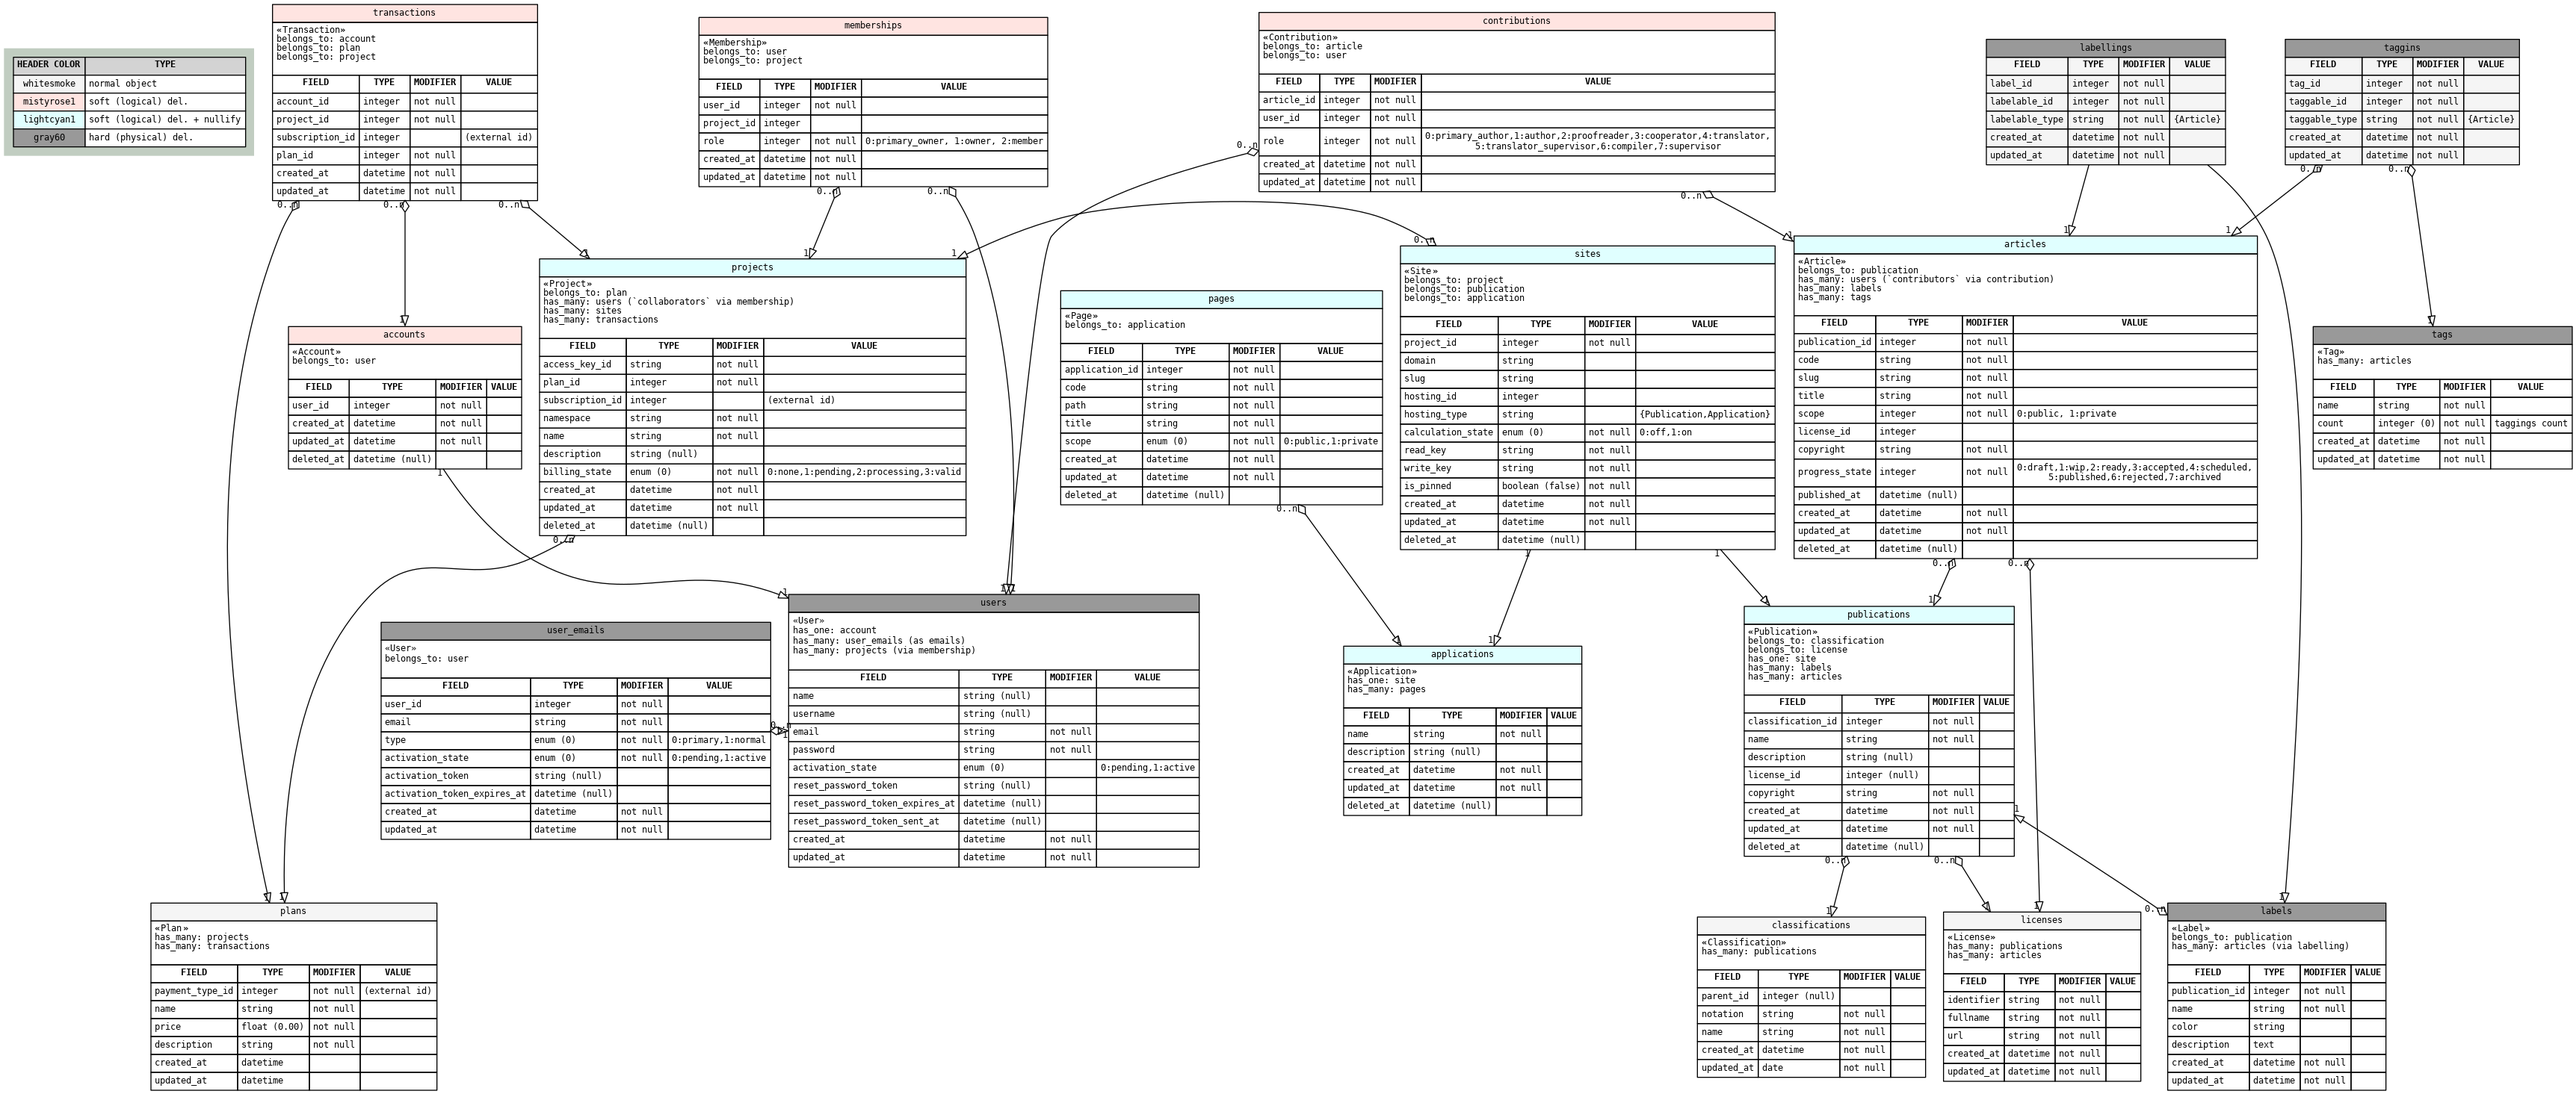
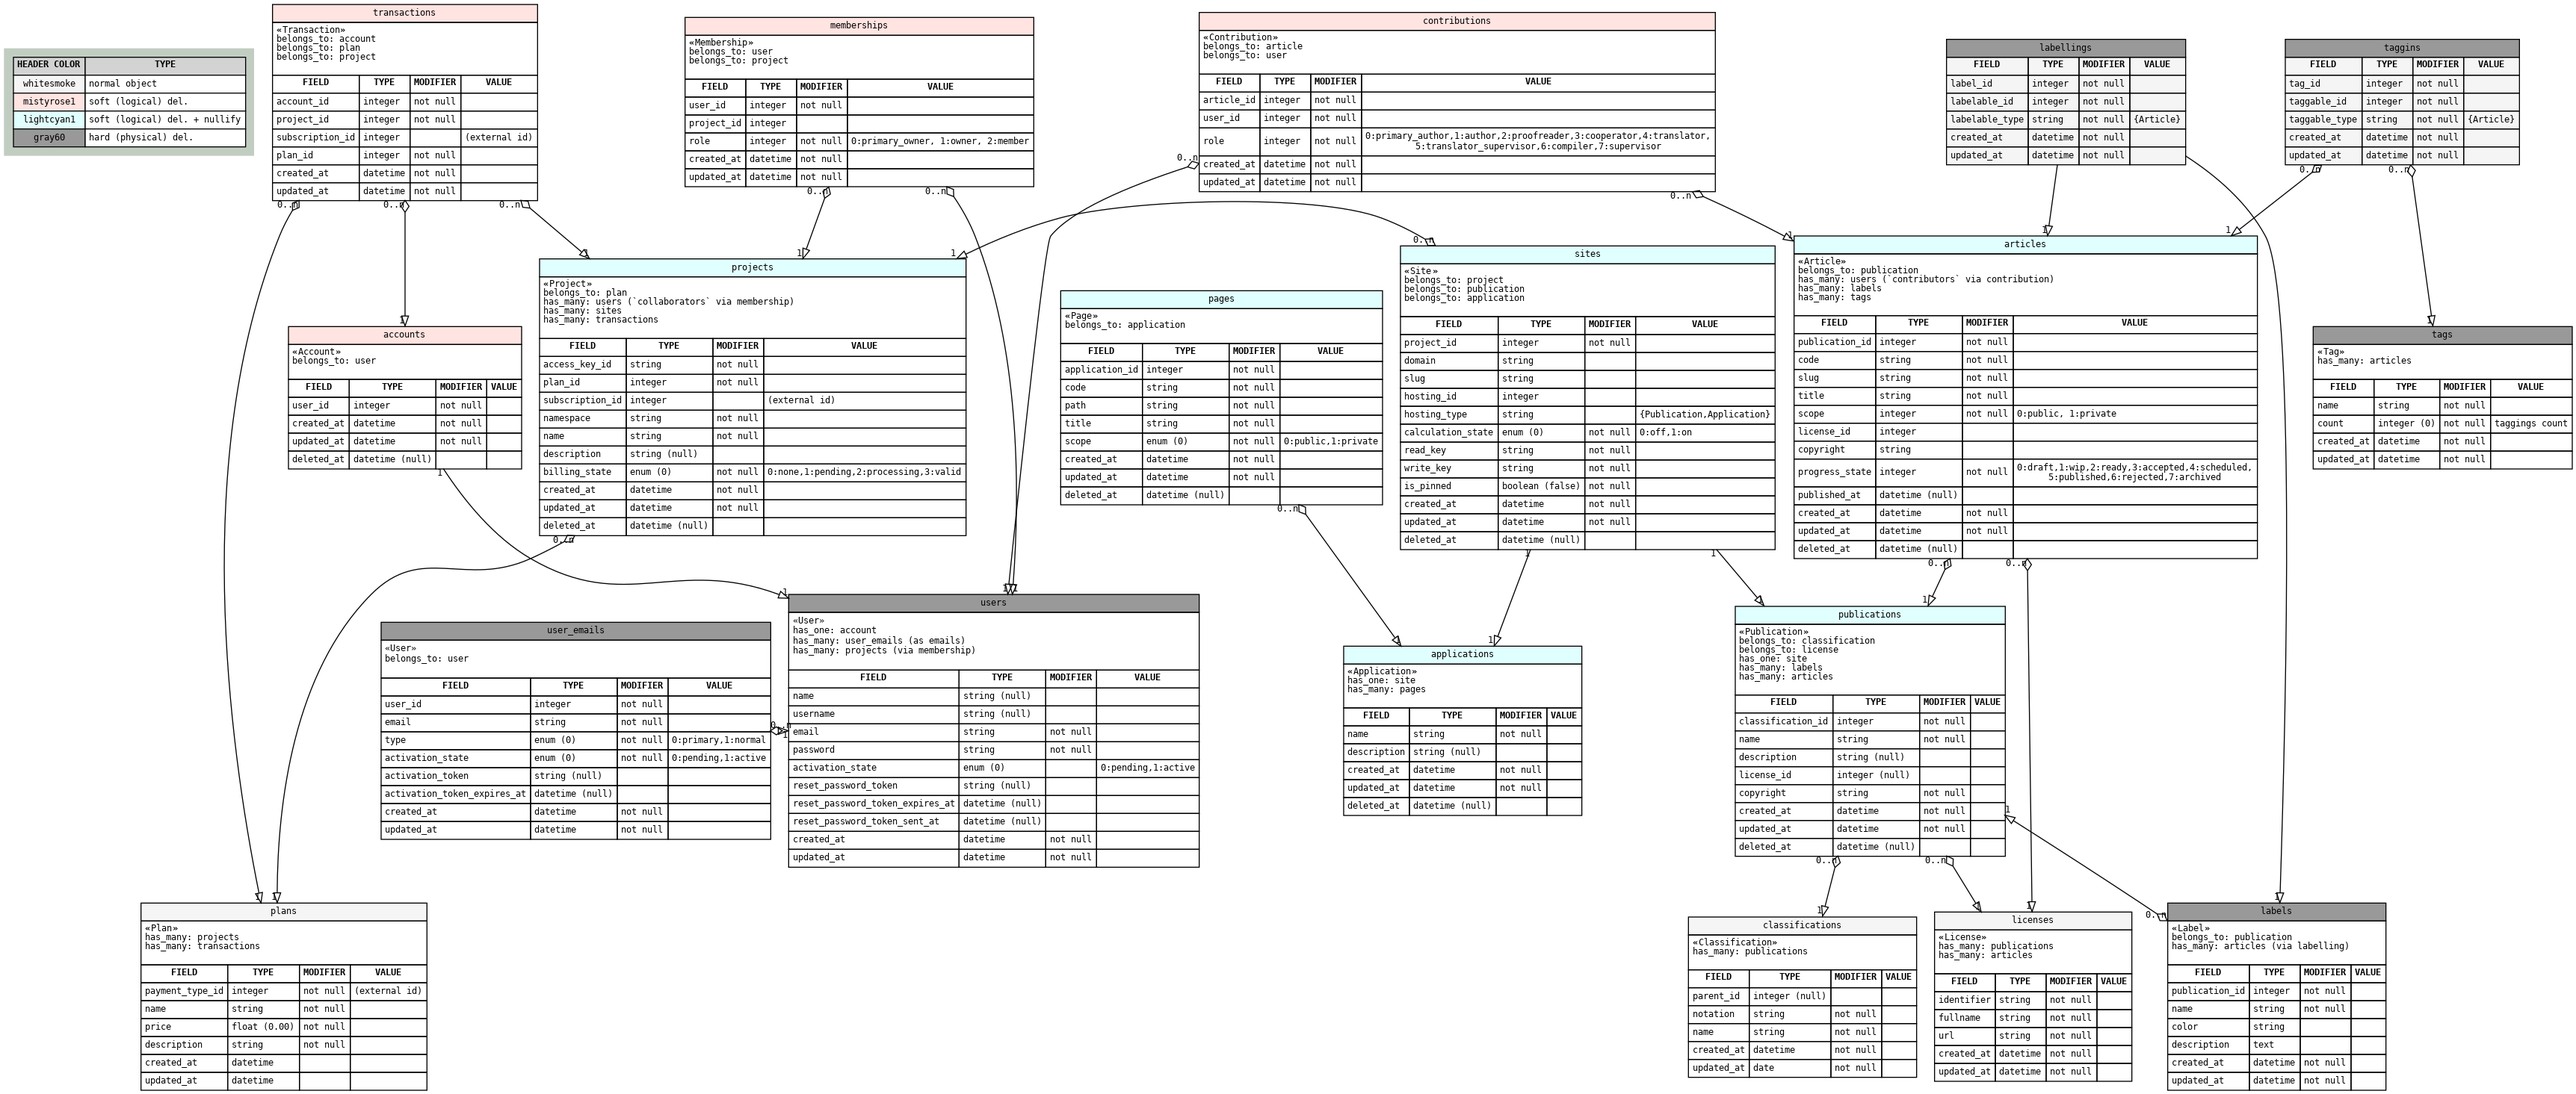
Remove not null from copyright in articles
close #23

diff --git a/db/migrations/021_remove_article_copyright_null_constraints.py b/db/migrations/021_remove_article_copyright_null_constraints.py
@@ -1,0 +1,9 @@
+# pylint: disable=invalid-name
+
+
+def migrate(migrator, _database, **_kwargs):
+    migrator.drop_not_null('articles', 'copyright')
+
+
+def rollback(migrator, _database, **_kwargs):
+    migrator.add_not_null('articles', 'copyright')
